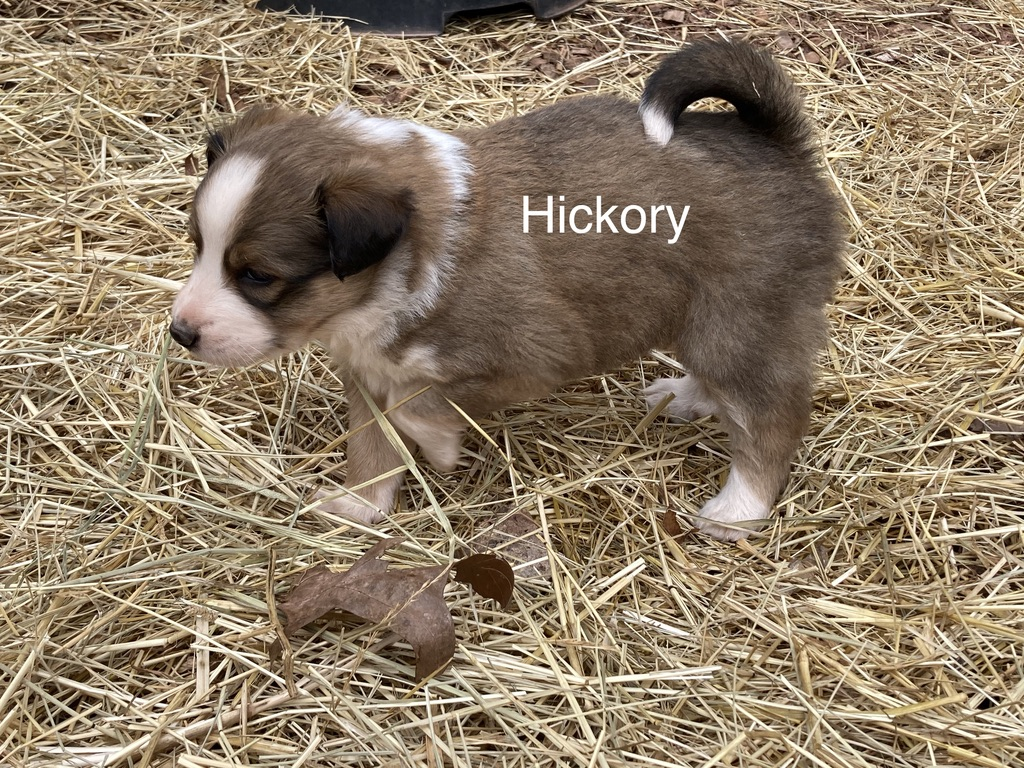
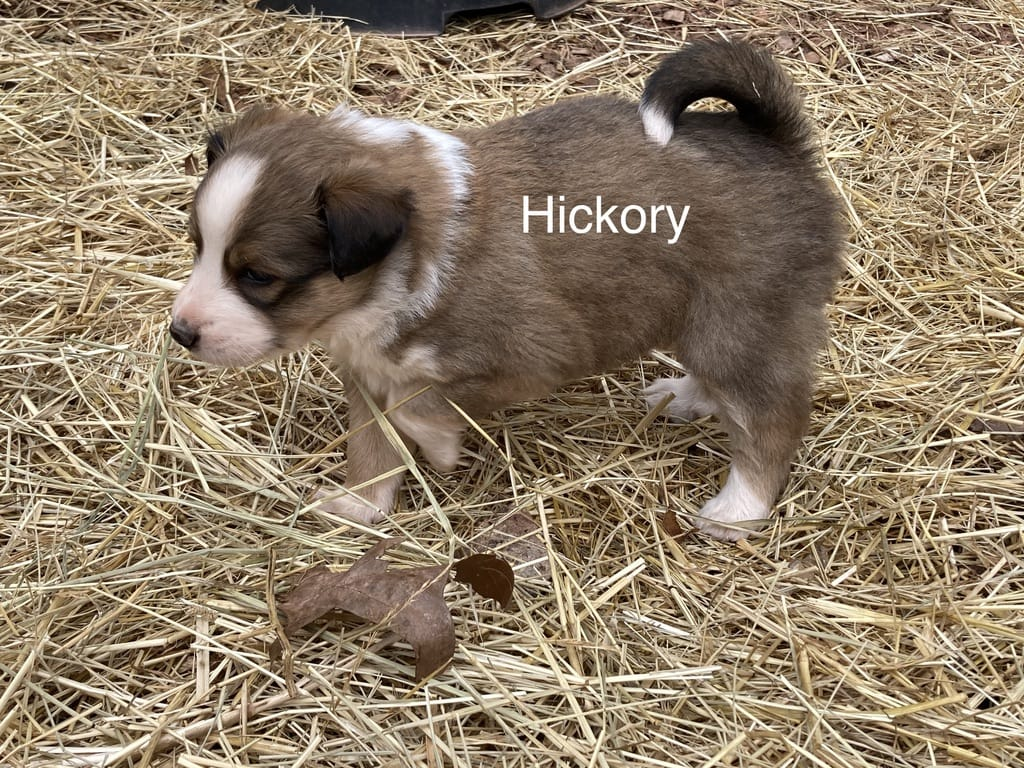
optimize pix, correct typos

diff --git a/2021puppies.html b/2021puppies.html
@@ -98,7 +98,7 @@
 
               <p>This past week the puppies had their first nail trim and it went just fine, a little wriggly though.  It's good to handle them early and often, all over their bodies so they are used to being touched in case of any need for medical care, it makes the vet's/groomer's jobs a little easier.  We will be giving them their first bath when we get out of this cold spell. They enjoy wrestling and sleeping in the dirt and it's starting to show on their coats!  While the have nicer accommodations, they often prefer to sleep outside in the dirt!</p>
 
-              <p>We have placed a dog house in their yard and a crate in the dog "coop" for them to explore.  Many of these puppies are destined to be inside/outside dogs, so we want to get them used to both. While we wont have time to fully crate train the puppies, Montana will show them it is a secure space and that they'll need to find somewhere else to relieve themselves. This should ease the journey for those going on long car rides to their new homes, though I imagine there will be a good deal of holding and snuggling by those family members who are not driving.</p>
+              <p>We have placed a dog house in their yard and a crate in the dog "coop" for them to explore.  Many of these puppies are destined to be inside/outside dogs, so we want to get them used to both. While we won't have time to fully crate train the puppies, Montana will show them it is a secure space and that they'll need to find somewhere else to relieve themselves. This should ease the journey for those going on long car rides to their new homes, though I imagine there will be a good deal of holding and snuggling by those family members who are not driving.</p>
             </div>
             <div class="row">
               <div class="col-5 mx-auto text-center">
@@ -113,7 +113,7 @@
             <br>
           <div class="row">
               <div class="col-5 mx-auto text-center">
-                <img class="img-thumbnail" src="images/puppies_2021/iris_0402.jpeg" alt="">
+                <img class="img-thumbnail" src="images/puppies_2021/iris_0402.jpg" alt="">
               </div>
 
               <div class="col-5 mx-auto text-center">
